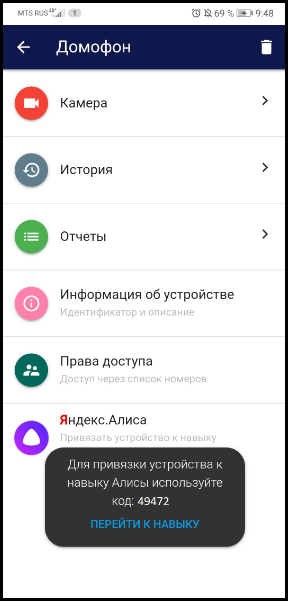
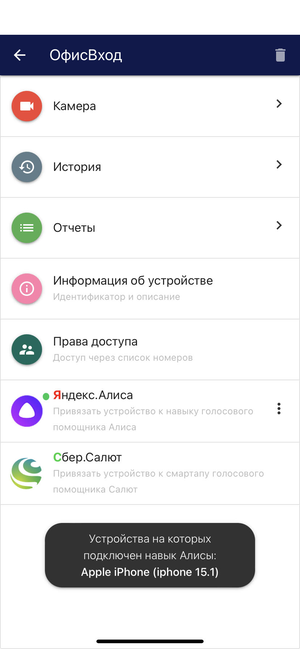
desc

diff --git a/content/51-cloud_v1.7.0/4-functional/5-smartup/5-smartup.md b/content/51-cloud_v1.7.0/4-functional/5-smartup/5-smartup.md
@@ -4,7 +4,7 @@ title: "Навык Умный домофон в смартапе Салют"
 sort: "15"
 ---
 
-### Навык Умный домофон 
+### Навык Умный домофон  в Салюте
 
 Управление устройствами с помощью голоса доступно также и с использованием навыка Умный домофон ([ссылка](https://salute.sber.ru/)), который позволяет выполнять команду “открой дверь” и отвечать на вопросы кто и когда пришел.  
 Для привязки устройства к навыку необходимо использовать специальный идентификатор. Далее- скриншот
@@ -16,41 +16,40 @@ sort: "15"
 2. Отвечать на следующие вопросы (для устройств, добавленных через сервер eVision и включенной видеоаналитикой на данном устройстве):  
 
 - **когда пришел <Имя пользователя>?**  
-Ответ Алисы: Первая запись о появлении пользователя на устройстве. 
+Ответ Салюта: Первая запись о появлении пользователя на устройстве. 
 Если пользователя нет в Базе, то информационное сообщение: “Информация по этому пользователю не найдена” 
 Если записи о пользователе за сегодняшний день нет, то информационное сообщение:  “Информация по этому пользователю не найдена” .
 Навык также поддерживает сохранение контекста в запросах, например сможет ответить на вопросы:  
   - А вчера?  
-   Ответ Алисы: Первая запись о появлении пользователя на устройстве вчера.  
+   Ответ Салюта: Первая запись о появлении пользователя на устройстве вчера.  
   - А пользователь <Имя пользователя 2>?  
-   Ответ Алисы: Первая запись о Пользователе 2 на устройстве вчера.  
+   Ответ Салюта: Первая запись о Пользователе 2 на устройстве вчера.  
 
 - **кто пришел?**  
-Ответ Алисы: Список всех зарегистрированных пользователей, идентифицированных eVision за последние 2 мин. и отраженных в отчете по персонам в eVision Cloud.
+Ответ Салюта: Список всех зарегистрированных пользователей, идентифицированных eVision за последние 2 мин. и отраженных в отчете по персонам в eVision Cloud.
 Если в течение 2 минут ни один пользователь из базы не был идентифицирован, то информационное сообщение: “Сейчас никого нет”.  
 
 - **кто пришел после <Время в 24-часовом формате>?**  
-Ответ Алисы:  Список всех зарегистрированных пользователей, идентифицированных eVision и отраженных в отчете по персонам в eVision Cloud за период времени с указанного в запросе до момента запроса.
-С предложением перечислить всех.
-При согласии на предложение перечислить всех, Ассистент проговаривает всех пользователей, кто был идентифицирован в указанный промежуток времени.
-Если в указанный промежуток времени никто не приходил, то информационное сообщение: “после <Время в 24-часовом формате> никто не приходил”.  
+Ответ Салюта:  Список всех зарегистрированных пользователей, идентифицированных eVision и отраженных в отчете по персонам в eVision Cloud за период времени с указанного в запросе до момента запроса. С предложением перечислить всех. При согласии на предложение перечислить всех, Ассистент проговаривает всех пользователей, кто был идентифицирован в указанный промежуток времени. Если в указанный промежуток времени никто не приходил, то информационное сообщение: “после <Время в 24-часовом формате> никто не приходил”.  
 
 - **кто пришел до <Время в 24-часовом формате>?**  
-Ответ Алисы:  Список всех зарегистрированных пользователей, идентифицированных eVision и отраженных в отчете по персонам в eVision Cloud с начала дня (00:00) до указанного в запросе времени.
-С предложением перечислить всех.
+Ответ Салюта:  Список всех зарегистрированных пользователей, идентифицированных eVision и отраженных в отчете по персонам в eVision Cloud с начала дня (00:00) до указанного в запросе времени. С предложением перечислить всех. При согласии на предложение перечислить всех, Ассистент проговаривает всех пользователей, кто был идентифицирован в указанный промежуток времени. Если в указанный промежуток времени никто не приходил, то информационное сообщение: “до <Время в 24-часовом формате> никто не приходил”.
 
-При согласии на предложение перечислить всех, Ассистент проговаривает всех пользователей, кто был идентифицирован в указанный промежуток времени.
-Если в указанный промежуток времени никто не приходил, то информационное сообщение: “до <Время в 24-часовом формате> никто не приходил”.
+- **кто пришел первый?**  
+Ответ Салюта: Первый пользователь, идентифицированный eVision за сегодняшний день и отраженный в отчете по персонам в eVision.Cloud на первой позиции.
+  
+- **кто пришел последний?**  
+Ответ Салюта: Последний  пользователь, идентифицированный eVision за сегодняшний день и отраженный в отчете по персонам в eVision.Cloud на последней  позиции на момент запроса. 
+   
+- **кто пришел N-ый?**  
+Ответ Салюта: N-ный пользователь, идентифицированный eVision за сегодняшний день и отраженный в отчете по персонам в eVision.Cloud на N-ной  позиции на момент запроса.
 
 Также эти вопросы можно задавать, не проваливаясь в навык, а спрашивая у него, например:  
-- **“Алиса, попроси навык умный домофон открыть дверь”**  
-или  
-- **“Алиса, попроси навык умный домофон” сообщить когда пришел <Имя пользователя>**  
+- **Салют, попроси навык умный домофон открыть дверь”**   
+  
+- **Салют, попроси навык умный домофон” сообщить когда пришел <Имя пользователя>**   
+
+- **Салют, покажи камеру**  
 
 ![](images/Alica(3).png)
 
-После активации навыка **Умный домофон**, при нажатии на кнопку "троеточие" в eVision Cloud можно посмотреть устройства на которых подключен навык Алисы.
-
-![](images/device_list.png)
-
-![](images/device_list(1).png)

diff --git a/content/51-cloud_v1.7.0/4-functional/4-smartintercom/4-smartintercom.md b/content/51-cloud_v1.7.0/4-functional/4-smartintercom/4-smartintercom.md
@@ -4,7 +4,7 @@ title: "Навык Умный домофон в Алисе"
 sort: "14"
 ---
 
-### Навык Умный домофон 
+### Навык Умный домофон в Алисе 
 
 Управление устройствами с помощью голоса доступно также и с использованием навыка Умный домофон ([ссылка](https://dialogs.yandex.ru/store/skills/95f2acff-umnyj-domofon)), который позволяет выполнять команду “открой дверь” и отвечать на вопросы кто и когда пришел.  
 Для привязки устройства к навыку необходимо использовать специальный идентификатор. Далее- скриншот
@@ -36,20 +36,16 @@ sort: "14"
 Если в указанный промежуток времени никто не приходил, то информационное сообщение: “после <Время в 24-часовом формате> никто не приходил”.  
 
 - **кто пришел до <Время в 24-часовом формате>?**  
-Ответ Алисы:  Список всех зарегистрированных пользователей, идентифицированных eVision и отраженных в отчете по персонам в eVision Cloud с начала дня (00:00) до указанного в запросе времени.
-С предложением перечислить всех.
+Ответ Алисы:  Список всех зарегистрированных пользователей, идентифицированных eVision и отраженных в отчете по персонам в eVision Cloud с начала дня (00:00) до указанного в запросе времени. С предложением перечислить всех. При согласии на предложение перечислить всех, Ассистент проговаривает всех пользователей, кто был идентифицирован в указанный промежуток времени. Если в указанный промежуток времени никто не приходил, то информационное сообщение: “до <Время в 24-часовом формате> никто не приходил”.
 
 - **кто пришел первый?**  
-Ответ: Первый пользователь, идентифицированный eVision за сегодняшний день и отраженный в отчете по персонам в eVision.Cloud на первой позиции.
+Ответ Алисы: Первый пользователь, идентифицированный eVision за сегодняшний день и отраженный в отчете по персонам в eVision.Cloud на первой позиции.
   
 - **кто пришел последний?**  
-Ответ: Последний  пользователь, идентифицированный eVision за сегодняшний день и отраженный в отчете по персонам в eVision.Cloud на последней  позиции на момент запроса. 
+Ответ Алисы: Последний  пользователь, идентифицированный eVision за сегодняшний день и отраженный в отчете по персонам в eVision.Cloud на последней  позиции на момент запроса. 
    
 - **кто пришел N-ый?**  
-Ответ: N-ный пользователь, идентифицированный eVision за сегодняшний день и отраженный в отчете по персонам в eVision.Cloud на N-ной  позиции на момент запроса.    
-
-При согласии на предложение перечислить всех, Ассистент проговаривает всех пользователей, кто был идентифицирован в указанный промежуток времени.
-Если в указанный промежуток времени никто не приходил, то информационное сообщение: “до <Время в 24-часовом формате> никто не приходил”.
+Ответ Алисы: N-ный пользователь, идентифицированный eVision за сегодняшний день и отраженный в отчете по персонам в eVision.Cloud на N-ной  позиции на момент запроса.    
 
 Также эти вопросы можно задавать, не проваливаясь в навык, а спрашивая у него, например:  
 - **“Алиса, попроси навык умный домофон открыть дверь”**  

diff --git a/content/51-cloud_v1.7.0.md b/content/51-cloud_v1.7.0.md
@@ -7,12 +7,7 @@ sort: "5"
 
 **Что нового?**  
 
-1. Реализована возможность добавлять устройства напрямую в eVision Cloud: Beward DS06, Beward DKS15XX, Beward DKS20210, Beward B2230L-P, Beward BXXX.  
-   
-2. Добавлено боковое меню, где отображается идентификатор пользователя, по которому вы авторизованы на сервисе и кнопка выхода.
+1. Реализован смартап Умный домофон в Smart Market от Сбера 
 
-3. Поддержаны стандартные методы зуммирования изображения с камеры:  
-    - растягивание экрана для мобильного приложения   
-    - скроллом колеса мыши для десктопной версии  
-
-4. В Правах доступа рядом с номером телефона добавлено поле для описания (имя владельца), а также возможность добавления сразу нескольких номеров в виде csv файла.
+2. Расширен навык Умный домофон Алисы следующими запросами: кто пришел первый?, кто пришел последний?, кто пришел N-ный?
+ 
